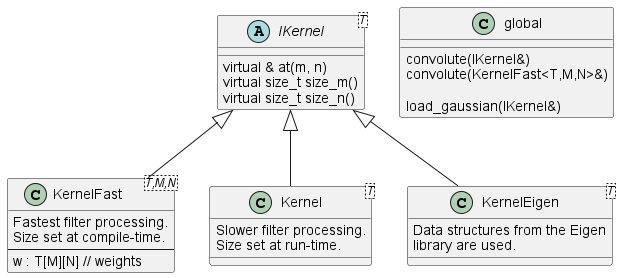
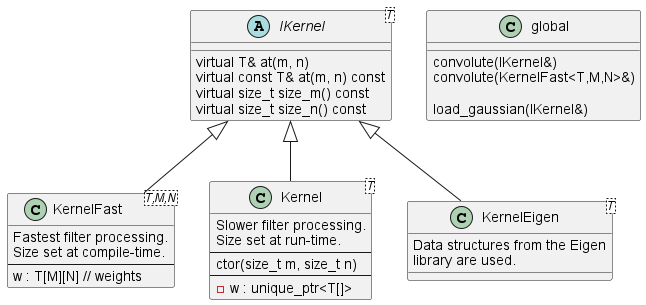
able to create general Filter and Kernel runs

Changed region(s): [[0.0, 0.0288, 0.672, 1.0], [0.6415, 0.0, 1.0, 0.4317], [0.6109, 0.5755, 1.0, 0.9784]]

diff --git a/src/filter/operations.cpp b/src/filter/operations.cpp
@@ -8,6 +8,90 @@ namespace filter {
 
 
 void convolute(
+    const IKernel<float>& kernel,
+    const uint8_t* input,
+    size_t ncols,
+    size_t nrows,
+    size_t channels,
+    uint8_t* output)
+{
+    unique_ptr<float[]> new_pixel { new float[channels] };
+
+    for (size_t x = 0; x < ncols; ++x) {
+        for (size_t y = 0; y < nrows; ++y) {
+            fill_n(new_pixel.get(), channels, static_cast<float>(0.0f));
+
+            #if OPTIMIZE_1 || OPTIMIZE_2
+            // This optimization avoids a multiplication in accessing the kernel weights as long
+            // as the kernel weights are processed a row at a time in the for loops.
+            //
+            // This still doesn't seem as fast as when the kernel weights were stored and accessed
+            // in from a multidimensional array in the for loops.
+            auto kc_p = kernel._weights;
+            #endif
+
+            #if OPTIMIZE_4
+            for (int ky = 0; ky < 3; ++ky) {
+            for (int kx = 0; kx < 3; ++kx) {
+            #else
+            for (int ky = 0; ky < kernel.size_m(); ++ky) {
+                for (int kx = 0; kx < kernel.size_n(); ++kx) {
+            #endif
+                    #if OPTIMIZE_1
+                    auto kc = *kc_p++;
+                    #elif OPTIMIZE_2
+                    // Do nothing.
+                    #elif OPTIMIZE_3
+                    auto kc = kernel._weights[ky][kx];
+                    #else
+                    //auto kc = kernel._weights[ky*kernel._ncols + kx];
+                    auto kc = kernel.at(ky, kx);
+                    #endif
+
+                    #if OPTIMIZE_4
+                    int input_x = static_cast<int>(x - 3 / 2 + kx);
+                    int input_y = static_cast<int>(y - 3 / 2 + ky);
+                    #else
+                    int input_x = static_cast<int>(x - kernel.size_n() / 2 + kx);
+                    int input_y = static_cast<int>(y - kernel.size_m() / 2 + ky);
+                    #endif
+
+                    // Adjust input coordinate if kernel is overhanging the input image's side/top.
+                    if (input_x < 0)
+                        input_x = 0;
+                    else if (input_x >= ncols)
+                        input_x = ncols - 1;
+                    if (input_y < 0)
+                        input_y = 0;
+                    else if (input_y >= nrows)
+                        input_y = nrows - 1;
+
+                    auto input_pixel = &input[input_y*ncols*channels + input_x*channels];
+
+                    for (int i = 0; i < channels; ++i) {
+                        #if OPTIMIZE_2
+                        new_pixel[i] += (*kc_p) * (*(input_pixel + i));
+                        #else
+                        new_pixel[i] += kc * (*(input_pixel + i));
+                        #endif
+                    }
+                    #if OPTIMIZE_2
+                    kc_p++;
+                    #endif
+                }
+            }
+
+            for (int i = 0; i < channels; ++i) {
+                output[y*ncols*channels + x*channels + i] = static_cast<uint8_t>(new_pixel[i]);
+            }
+        }
+    }
+}
+
+
+
+// WARNING: This is an older function.
+void convolute(
     const Kernel_2d& kernel,
     const uint8_t* input,
     size_t ncols,

diff --git a/include/filter/Kernel.h b/include/filter/Kernel.h
@@ -5,6 +5,7 @@
 
 #include <cstddef>
 #include <cstdint>
+#include <memory>
 #include "optimize_flags.h"
 
 namespace LTS {
@@ -16,9 +17,11 @@ template<typename T>
 class IKernel {
 
 public:
-    virtual size_t size_m() = 0;            // Number of rows in the kernel.
-    virtual size_t size_n() = 0;            // Number of columns in the kernel
+    virtual size_t size_m() const = 0;      // Number of rows in the kernel.
+    virtual size_t size_n() const = 0;      // Number of columns in the kernel
     virtual T& at(size_t m, size_t n) = 0;  // Access and set element at index (m, n).
+    virtual const T& at(size_t m, size_t n) const = 0;
+    virtual ~IKernel() { }
 
     virtual IKernel& operator*=(T scalar)
     {
@@ -47,9 +50,32 @@ class KernelFast : public IKernel<T> {
 public:
     T w[M][N];  // Weights.
 
-    size_t size_m() override { return M; }
-    size_t size_n() override { return N; }
+    size_t size_m() const override { return M; }
+    size_t size_n() const override { return N; }
     T& at(size_t m, size_t n) override { return w[m][n]; }
+    const T& at(size_t m, size_t n) const override { return w[m][n]; }
+};
+
+
+// General kernel.
+template<typename T>
+class Kernel : public IKernel<T> {
+public:
+    Kernel(size_t m, size_t n)
+        : w {new T[m*n]},
+          _m {m},
+          _n {n}
+    { }
+
+    size_t size_m() const override { return _m; }
+    size_t size_n() const override { return _n; }
+    T& at(size_t m, size_t n) override { return w[m * _n + n]; }
+    const T& at(size_t m, size_t n) const override { return w[m * _n + n]; }
+
+private:
+    std::unique_ptr<T[]> w;
+    size_t _m;
+    size_t _n;
 };
 
 

diff --git a/src/framework/FilterFactory.cpp b/src/framework/FilterFactory.cpp
@@ -3,6 +3,7 @@
 #include <stdexcept>
 #include <queue>
 #include "framework/FilterFast.h"
+#include "framework/Filter.h"
 #include "filter/Kernel.h"
 #include "filter/gaussian.h"
 #include "filter/operations.h"
@@ -10,6 +11,8 @@
 
 using namespace std;
 using LTS::filter::KernelFast;
+using LTS::filter::Kernel;
+using LTS::filter::IKernel;
 using LTS::filter::load_gaussian;
 using LTS::filter::convolute;
 using LTS::util::starts_with;
@@ -44,13 +47,13 @@ unique_ptr<IFilter> FilterFactory::create(const string& spec)
         if (parts_q.empty()) {
             throw invalid_argument("no kernel size specified in '" + spec + "'");
         }
-        auto size_m = stoi(parts_q.front());
+        auto size_m = static_cast<size_t>(stoi(parts_q.front()));
         parts_q.pop();
 
         if (parts_q.empty()) {
             throw invalid_argument("only 2-dimensional kernels supported at the time");
         }
-        auto size_n = stoi(parts_q.front());
+        auto size_n = static_cast<size_t>(stoi(parts_q.front()));
         parts_q.pop();
 
         // See if we can make a FilterFast.
@@ -68,10 +71,13 @@ unique_ptr<IFilter> FilterFactory::create(const string& spec)
         }
 
         // Fallback on making a normal Filter.
+        unique_ptr<IKernel<float>> kernel {new Kernel<float>{size_m, size_n}};
+        load_gaussian(*kernel);
 
-        throw invalid_argument("not implemented");
-
-
+        return unique_ptr<IFilter>(new Filter<float>(
+            std::move(kernel),
+            &convolute
+        ));
     } else {
         throw invalid_argument("cannot process filter specification of '" + spec + "'");
     }

diff --git a/include/filter/operations.h b/include/filter/operations.h
@@ -87,6 +87,30 @@ void convolute(
 //  - This convolution implementation may not be mathematically pure since it does not involve
 //    flipping of the kernel's matrix.
 void convolute(
+    const IKernel<float>& kernel,
+    const uint8_t* input,
+    size_t ncols,
+    size_t nrows,
+    size_t channels,
+    uint8_t* output
+);
+
+
+// WARNING: This is an older method.
+// Performs a convolution on the input data using the supplied filter kernel.
+//
+// [parameters]
+// kernel - The prefilled kernel.
+// input - The input data to process.
+// ncols - Number of cols of the input data (e.g. the image's width)
+// nrows - Number of rows of the input data (e.g. the image's height)
+// channels - Number of channels in the input data (e.g. 3 for RGB images).
+// output - Output of the processed data. May be provided to the function uninitialized.
+//
+// [notes]
+//  - This convolution implementation may not be mathematically pure since it does not involve
+//    flipping of the kernel's matrix.
+void convolute(
     const Kernel_2d& kernel,
     const uint8_t* input,
     size_t ncols,

diff --git a/include/framework/Filter.h b/include/framework/Filter.h
@@ -1,0 +1,41 @@
+// Wraps a Kernel object and associated process method.
+
+#ifndef LTS_FRAMEWORK_FILTER_H
+#define LTS_FRAMEWORK_FILTER_H
+
+#include <memory>
+#include "framework/IFilter.h"
+#include "filter/Kernel.h"
+
+namespace LTS {
+namespace framework {
+
+
+template<typename T>
+class Filter : public IFilter
+{
+public:
+    using ProcessFunction = void (*)(
+        const filter::IKernel<T>&, const uint8_t*,
+        size_t, size_t, size_t, uint8_t*);
+
+    Filter(std::unique_ptr<filter::IKernel<T>> kernel, ProcessFunction process)
+        : _kernel(move(kernel)),
+          _process(process)
+    { }
+
+    void process(uint8_t *data, size_t height, size_t width, size_t channels, uint8_t *output) override
+    {
+        _process(*_kernel, data, height, width, channels, output);
+    }
+
+private:
+    std::unique_ptr<filter::IKernel<T>> _kernel;
+    ProcessFunction _process;
+};
+
+
+}
+}
+
+#endif //LTS_FRAMEWORK_FILTER_H

diff --git a/include/optimize_flags.h b/include/optimize_flags.h
@@ -32,7 +32,7 @@
 // It eliminates a variable from the inner loops and instead dereferences the pointer access
 // as implemented in OPTIMIZE_1.
 
-#define OPTIMIZE_3 1
+#define OPTIMIZE_3 0
 // OPTIMIZE_3 converts the kernel weights to a multidimensional array.
 //
 // This optimization configuration is the setup as employed in Gaussian_v1 and provides the
